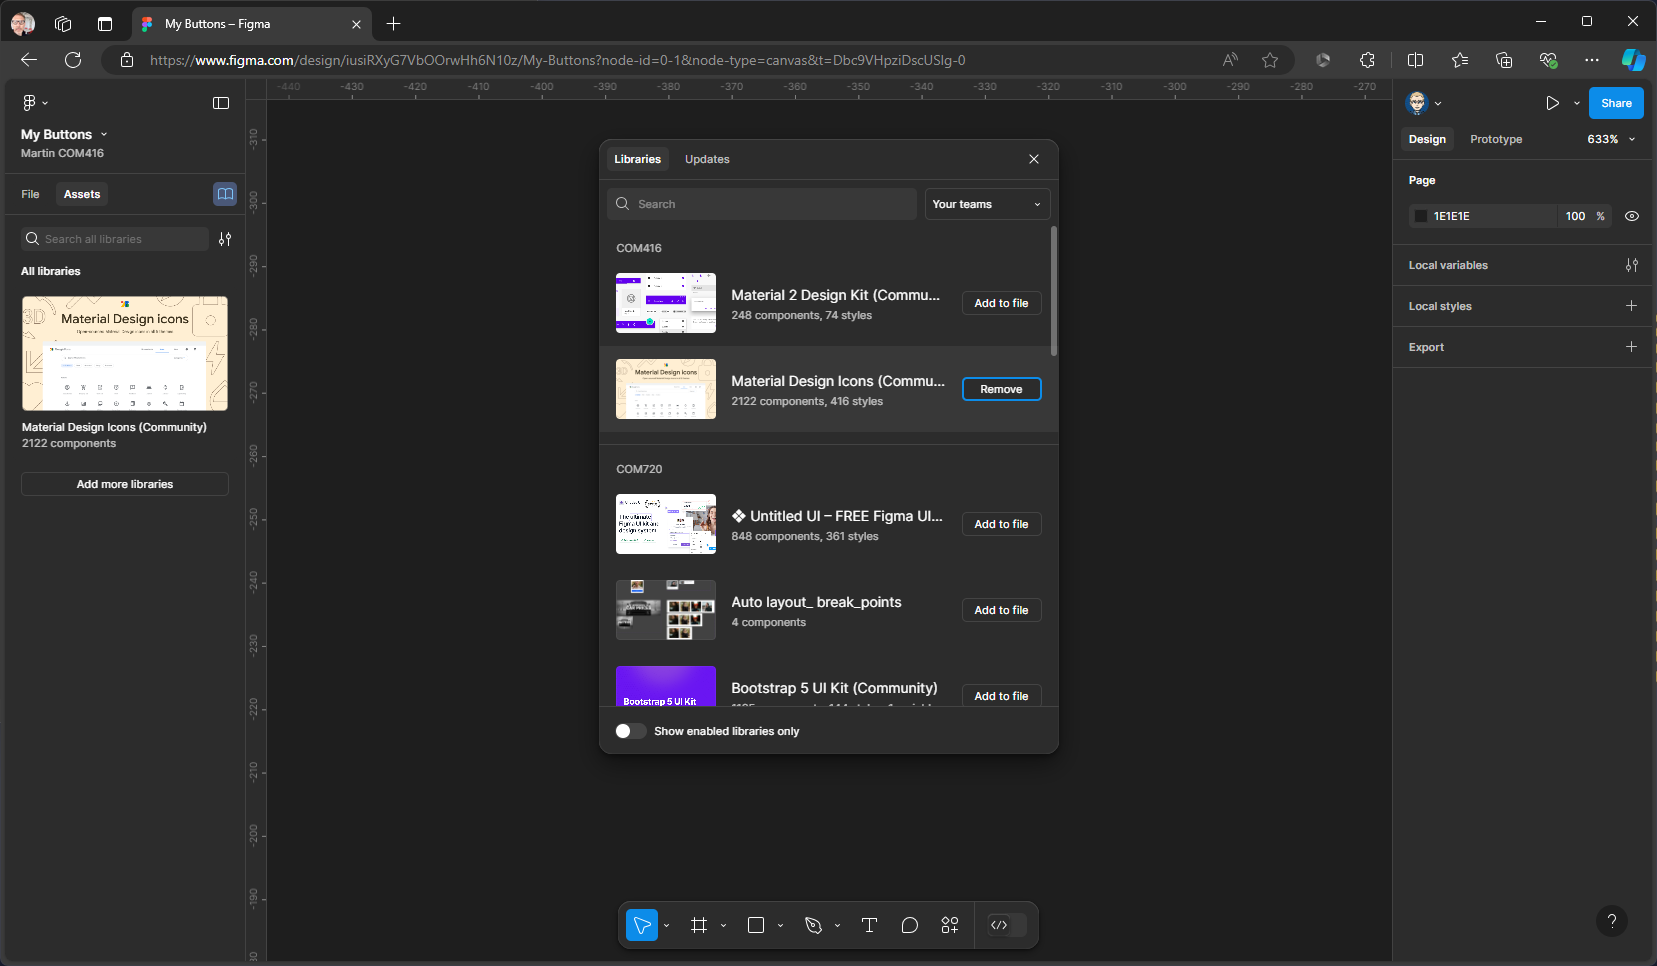
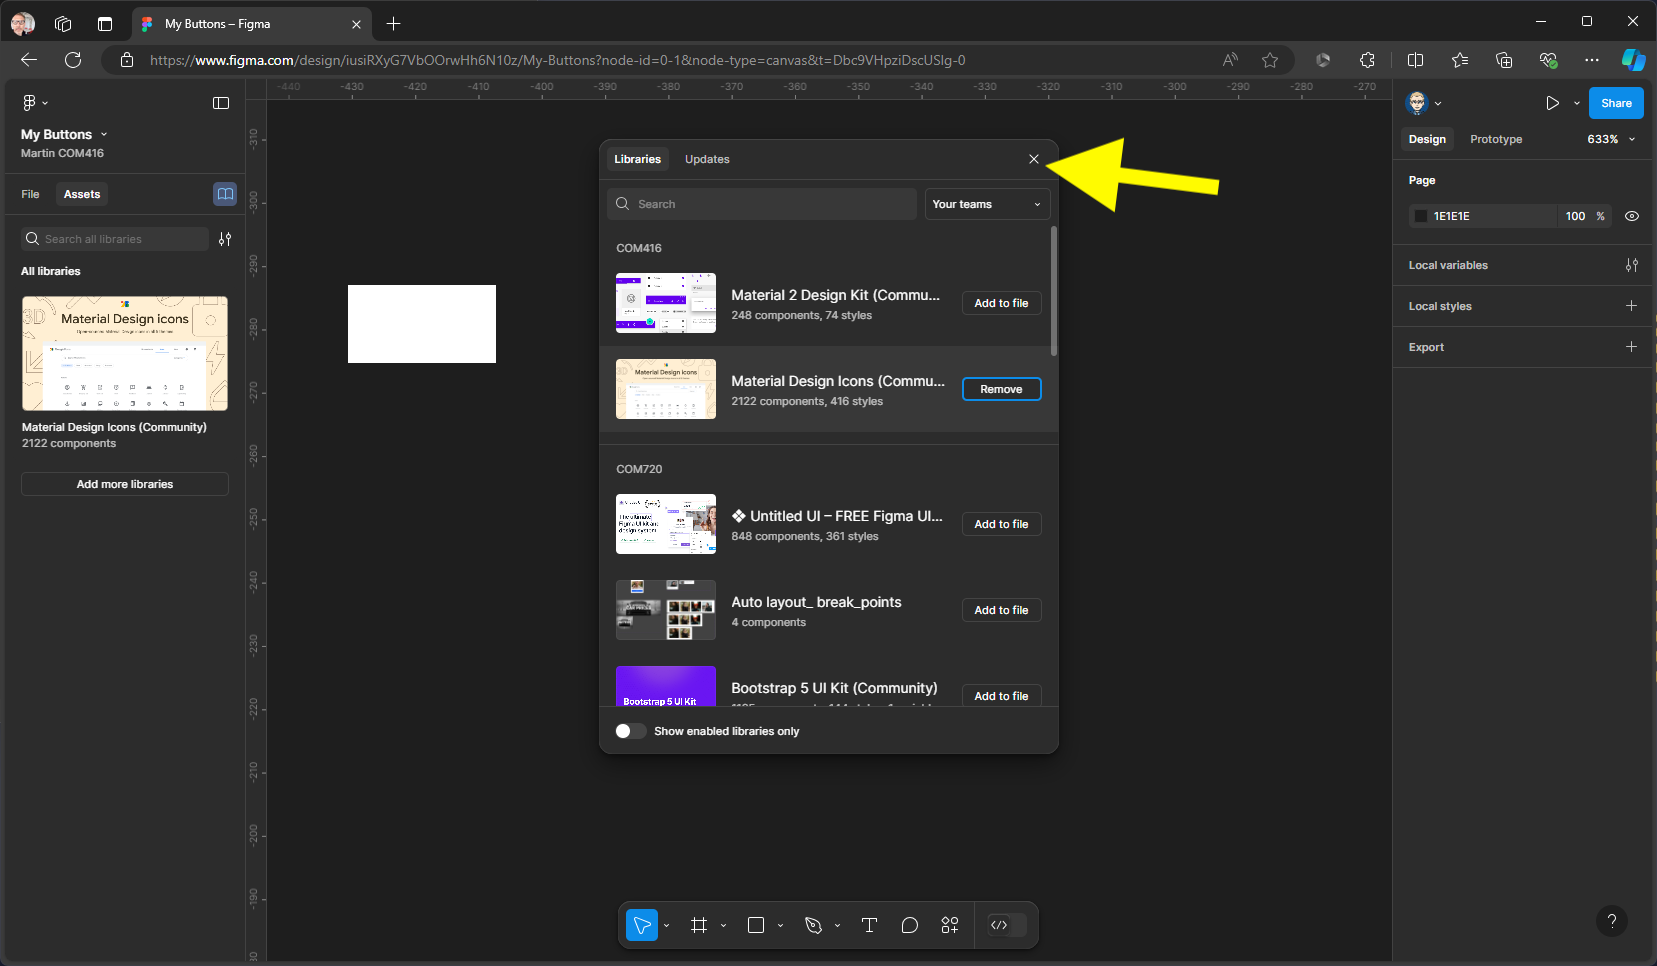
connect images

Changed region(s): [[0.1847, 0.2795, 0.3078, 0.3727], [0.6156, 0.1242, 0.7387, 0.2174]]

diff --git a/docs/figma_basics/create-button.md b/docs/figma_basics/create-button.md
@@ -16,43 +16,52 @@ nav_order: 6
 #### 1. 
 
 1. Create a new Design File
-![](../images/Figma_Button_2024/2.png)
+![](../images/Figma_Button_2024/img_21.png)
+
 
 1. Give your file a name
-![](../images/Figma_Button_2024/?.png)
+![](../images/Figma_Button_2024/img_11.png)
 
-1. We now need to bring in some icons to use in our project these have been previously imported from Figma community and are free to use. With Assets still selected, click on the library icon
-![](../images/Figma_Button_2024/?.png)
+1. We now need to bring in some icons to use in our project these have been previously imported from Figma Community and are free to use. With Assets still selected, click on the library icon
+![](../images/Figma_Button_2024/img_12.png)
 
-1. Change current file to your teams, you should now see material design icons community, click on add to file.
-![](../images/Figma_Button_2024/?.png)
+1. Change current file to **Your Teams**, you should now see material design icons community, click on add to file.
+![](../images/Figma_Button_2024/img_13.png)
+
+1. Click A**dd to file** button next to the **Material Design icons**
+
+![](../images/Figma_Button_2024/img_14.png)
 
 1. This will add the library to the Assets panel on the left, you can now close the libraries panel by clicking on the X top right.
-![](../images/Figma_Button_2024/?.png)
 
-1.You can double click on the library cover to reveal the icons contained within this
-![](../images/Figma_Button_2024/?.png)
+![](../images/Figma_Button_2024/img_15.png)
+
+1. You can double click on the library cover to reveal the icons contained within this
+![](../images/Figma_Button_2024/img_16.png)
+
+![](../images/Figma_Button_2024/img_22.png)
 
 1. Switch Assets to File
-![](../images/Figma_Button_2024/?.png)
+![](../images/Figma_Button_2024/img_4.png)
 
 1. Rename page 1 to Components
-![](../images/Figma_Button_2024/?.png)
+![](../images/Figma_Button_2024/img_17.png)
 
 1. Create a new page by clicking on the plus icon
-![](../images/Figma_Button_2024/?.png)
+![](../images/Figma_Button_2024/img_18.png)
 
 1. Call this **Layout**
-![](../images/Figma_Button_2024/?.png)
+![](../images/Figma_Button_2024/img_18.png)
 
 1. Click on the Frame Tool
-![](../images/Figma_Button_2024/?.png)
+![](../images/Figma_Button_2024/img_1.png)
 
 1. Drag out a frame on your **Paste Board**
-![](../images/Figma_Button_2024/?.png)
+![](../images/Figma_Button_2024/img_2.png)
 
 1. Resize in the right **Properties Panel** in the Layout Section to **W150 & H38** 
-![](../images/Figma_Button_2024/?.png)
+![](../images/Figma_Button_2024/img_3.png)
+
+![](../images/Figma_Button_2024/img_9.png)
 
  **Remember** you can zoom in on a component to fill the pasteboard by pressing Shift + 2
- ![](../images/Figma_Button_2024/?.png)
